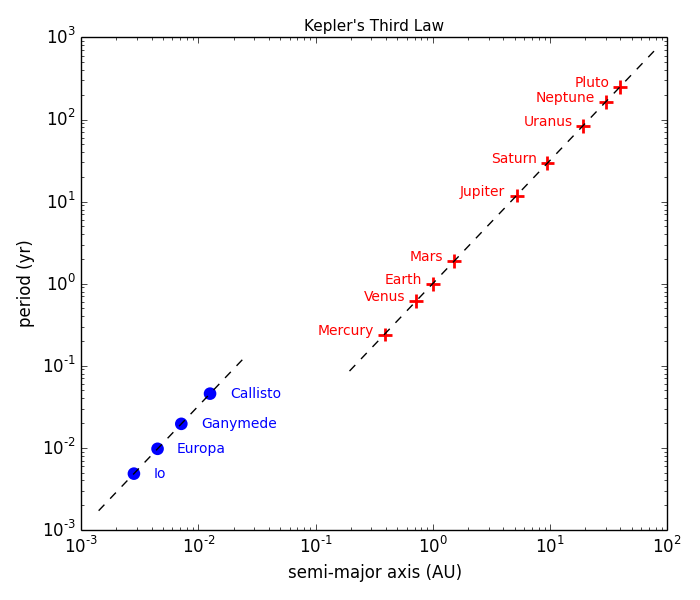
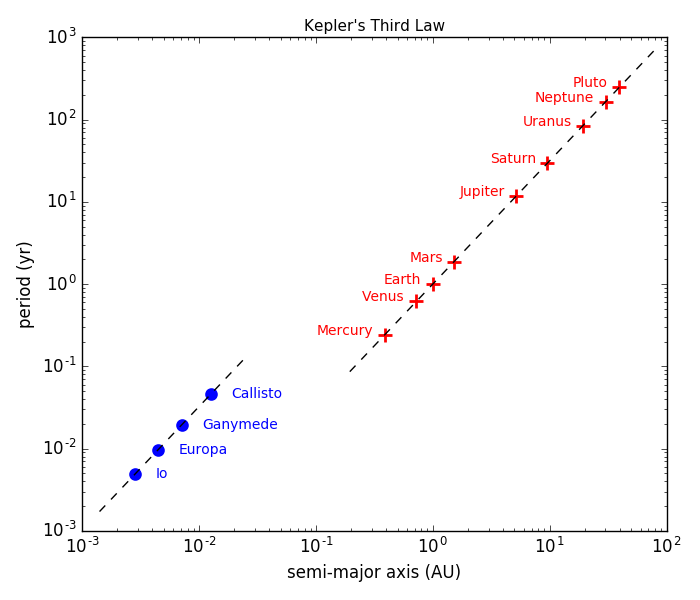
some cleaning

diff --git a/solar_system_motion/harmonic_law_fig/harmonic_law.py b/solar_system_motion/harmonic_law_fig/harmonic_law.py
@@ -10,25 +10,26 @@
 #
 # M. Zingale (2010-12-13)
 
-import math
-import numpy
-import pylab
+import numpy as np
+import matplotlib.pyplot as plt
 
 def harmonic_law():
 
-    plot_moons = 0
-    plot_pluto = 0
+    plot_moons = False
+    plot_pluto = False
+    
+    plot_extend_axes = True
 
     names = ["Mercury", "Venus", "Earth", "Mars", "Jupiter", "Saturn", 
              "Uranus", "Neptune", "Pluto"]
 
     names_J = ["Io", "Europa", "Ganymede", "Callisto"]
 
-    a = numpy.zeros(9, numpy.float64)
-    P = numpy.zeros(9, numpy.float64)
+    a = np.zeros(9, np.float64)
+    P = np.zeros(9, np.float64)
 
-    a_J = numpy.zeros(4, numpy.float64)
-    P_J = numpy.zeros(4, numpy.float64)
+    a_J = np.zeros(4, np.float64)
+    P_J = np.zeros(4, np.float64)
 
     # solar system
     # semi-major axes
@@ -48,8 +49,8 @@ def harmonic_law():
     P_J[:] = P_J[:]/365.24 # (days / yr)
 
     
-    # minimum semi-major axis value on x-axis
-    if (plot_moons == 1):
+    # minimum semi-major axis value on x-axis    
+    if plot_moons or plot_extend_axes:
         min_a = 0.001
         min_P = 0.001
     else:
@@ -58,62 +59,62 @@ def harmonic_law():
 
     
 
-    ax = pylab.subplot(111)
+    ax = plt.subplot(111)
     ax.set_xscale('log')
     ax.set_yscale('log')
 
 
     # solar system
-    if plot_pluto == 1:
-        pylab.scatter(a, P, s=100, marker="+", color="r", lw=2)
+    if plot_pluto:
+        plt.scatter(a, P, s=100, marker="+", color="r", lw=2)
     else:
-        pylab.scatter(a[0:8], P[0:8], s=100, marker="+", color="r", lw=2)
+        plt.scatter(a[0:8], P[0:8], s=100, marker="+", color="r", lw=2)
 
-    atemp = numpy.arange(2)*(2*numpy.max(a) - 0.5*numpy.min(a)) + 0.5*numpy.min(a)
-    pylab.plot(atemp, atemp**1.5, 'k--')
+    atemp = np.arange(2)*(2*np.max(a) - 0.5*np.min(a)) + 0.5*np.min(a)
+    plt.plot(atemp, atemp**1.5, 'k--')
 
-    if plot_pluto == 1:
+    if plot_pluto:
         num = 9
     else:
         num = 8
 
     for i in range(num):
-        pylab.text(a[i]*0.8,P[i], names[i],horizontalalignment="right", 
+        plt.text(a[i]*0.8,P[i], names[i],horizontalalignment="right", 
                    color="r", fontsize=10)
 
 
-    if plot_moons == 1:
+    if plot_moons:
 
         # Galilean moons
-        pylab.scatter(a_J,P_J, s=50, marker="o", color="b", lw=2)
+        plt.scatter(a_J,P_J, s=50, marker="o", color="b", lw=2)
 
-        atemp = numpy.arange(2)*(2*numpy.max(a_J) - 0.5*numpy.min(a_J)) + 0.5*numpy.min(a_J)
-        pylab.plot(atemp, P_J[0]*(atemp/a_J[0])**1.5, 'k--')
+        atemp = np.arange(2)*(2*np.max(a_J) - 0.5*np.min(a_J)) + 0.5*np.min(a_J)
+        plt.plot(atemp, P_J[0]*(atemp/a_J[0])**1.5, 'k--')
 
         for i in range(4):
-            pylab.text(a_J[i]*1.5,P_J[i], names_J[i],horizontalalignment="left",
+            plt.text(a_J[i]*1.5,P_J[i], names_J[i],horizontalalignment="left",
                        verticalalignment="center",
                        color="b",fontsize=10)
 
 
-    pylab.xlabel("semi-major axis (AU)")
-    pylab.ylabel("period (yr)")
+    plt.xlabel("semi-major axis (AU)")
+    plt.ylabel("period (yr)")
         
-    pylab.axis([min_a,100,min_P,1000])
+    plt.axis([min_a,100,min_P,1000])
 
-    pylab.title(r"Kepler's Third Law",fontsize=11)
+    plt.title(r"Kepler's Third Law",fontsize=11)
 
-    f = pylab.gcf()
+    f = plt.gcf()
     f.set_size_inches(7.0,6.0)
 
-    pylab.tight_layout()
+    plt.tight_layout()
 
     outbase = "harmonic_law"
-    if plot_pluto == 1: outbase += "_pluto"
-    if plot_moons == 1: outbase += "_moons"
+    if plot_pluto: outbase += "_pluto"
+    if plot_moons: outbase += "_moons"
         
-    pylab.savefig(outbase + ".png")
-    pylab.savefig(outbase + ".eps")
+    plt.savefig(outbase + ".png")
+    plt.savefig(outbase + ".eps")
 
 
 
